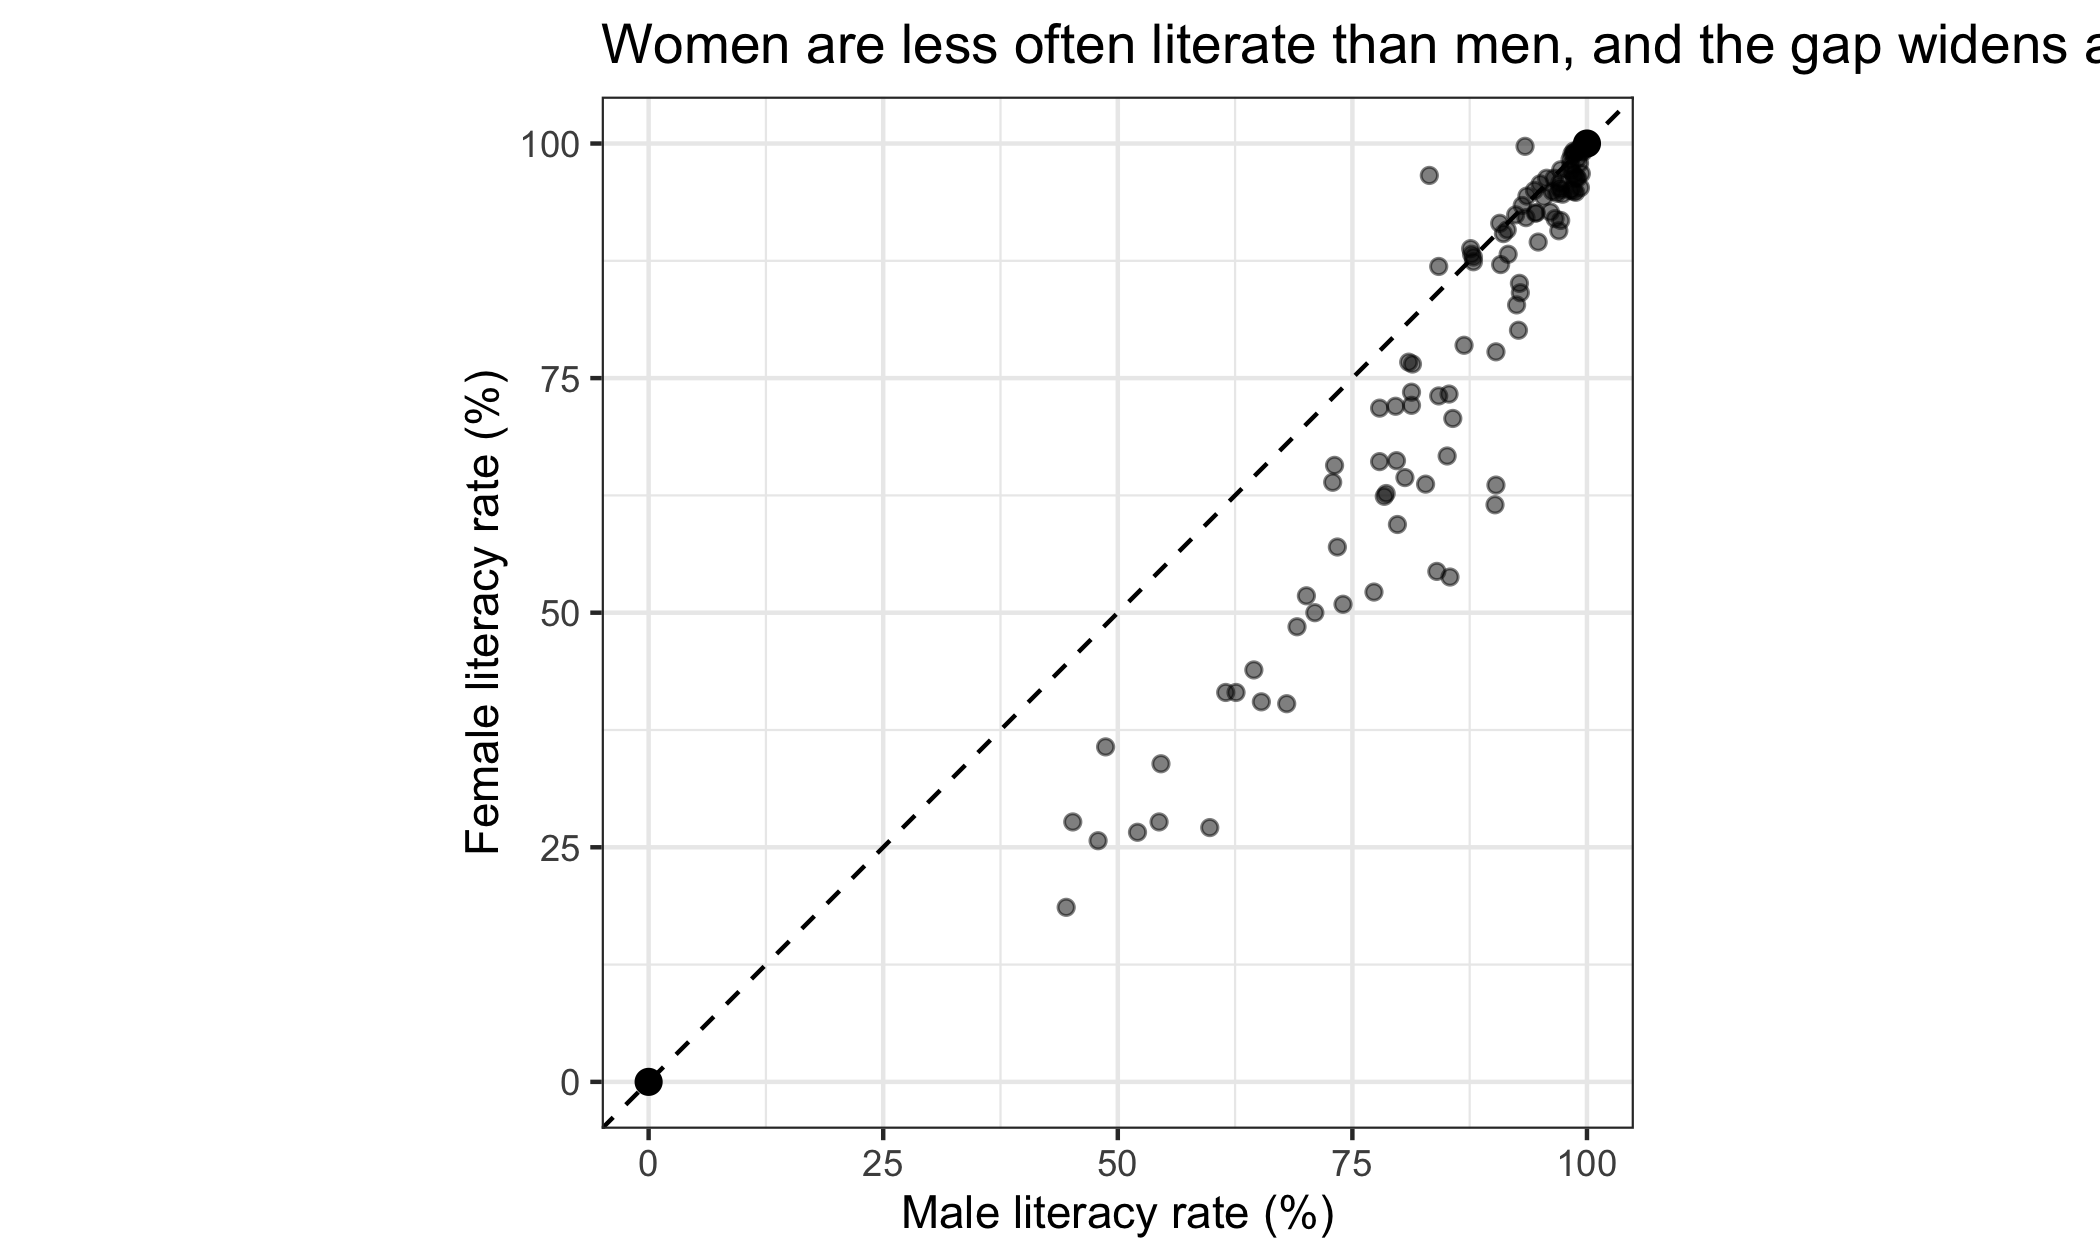
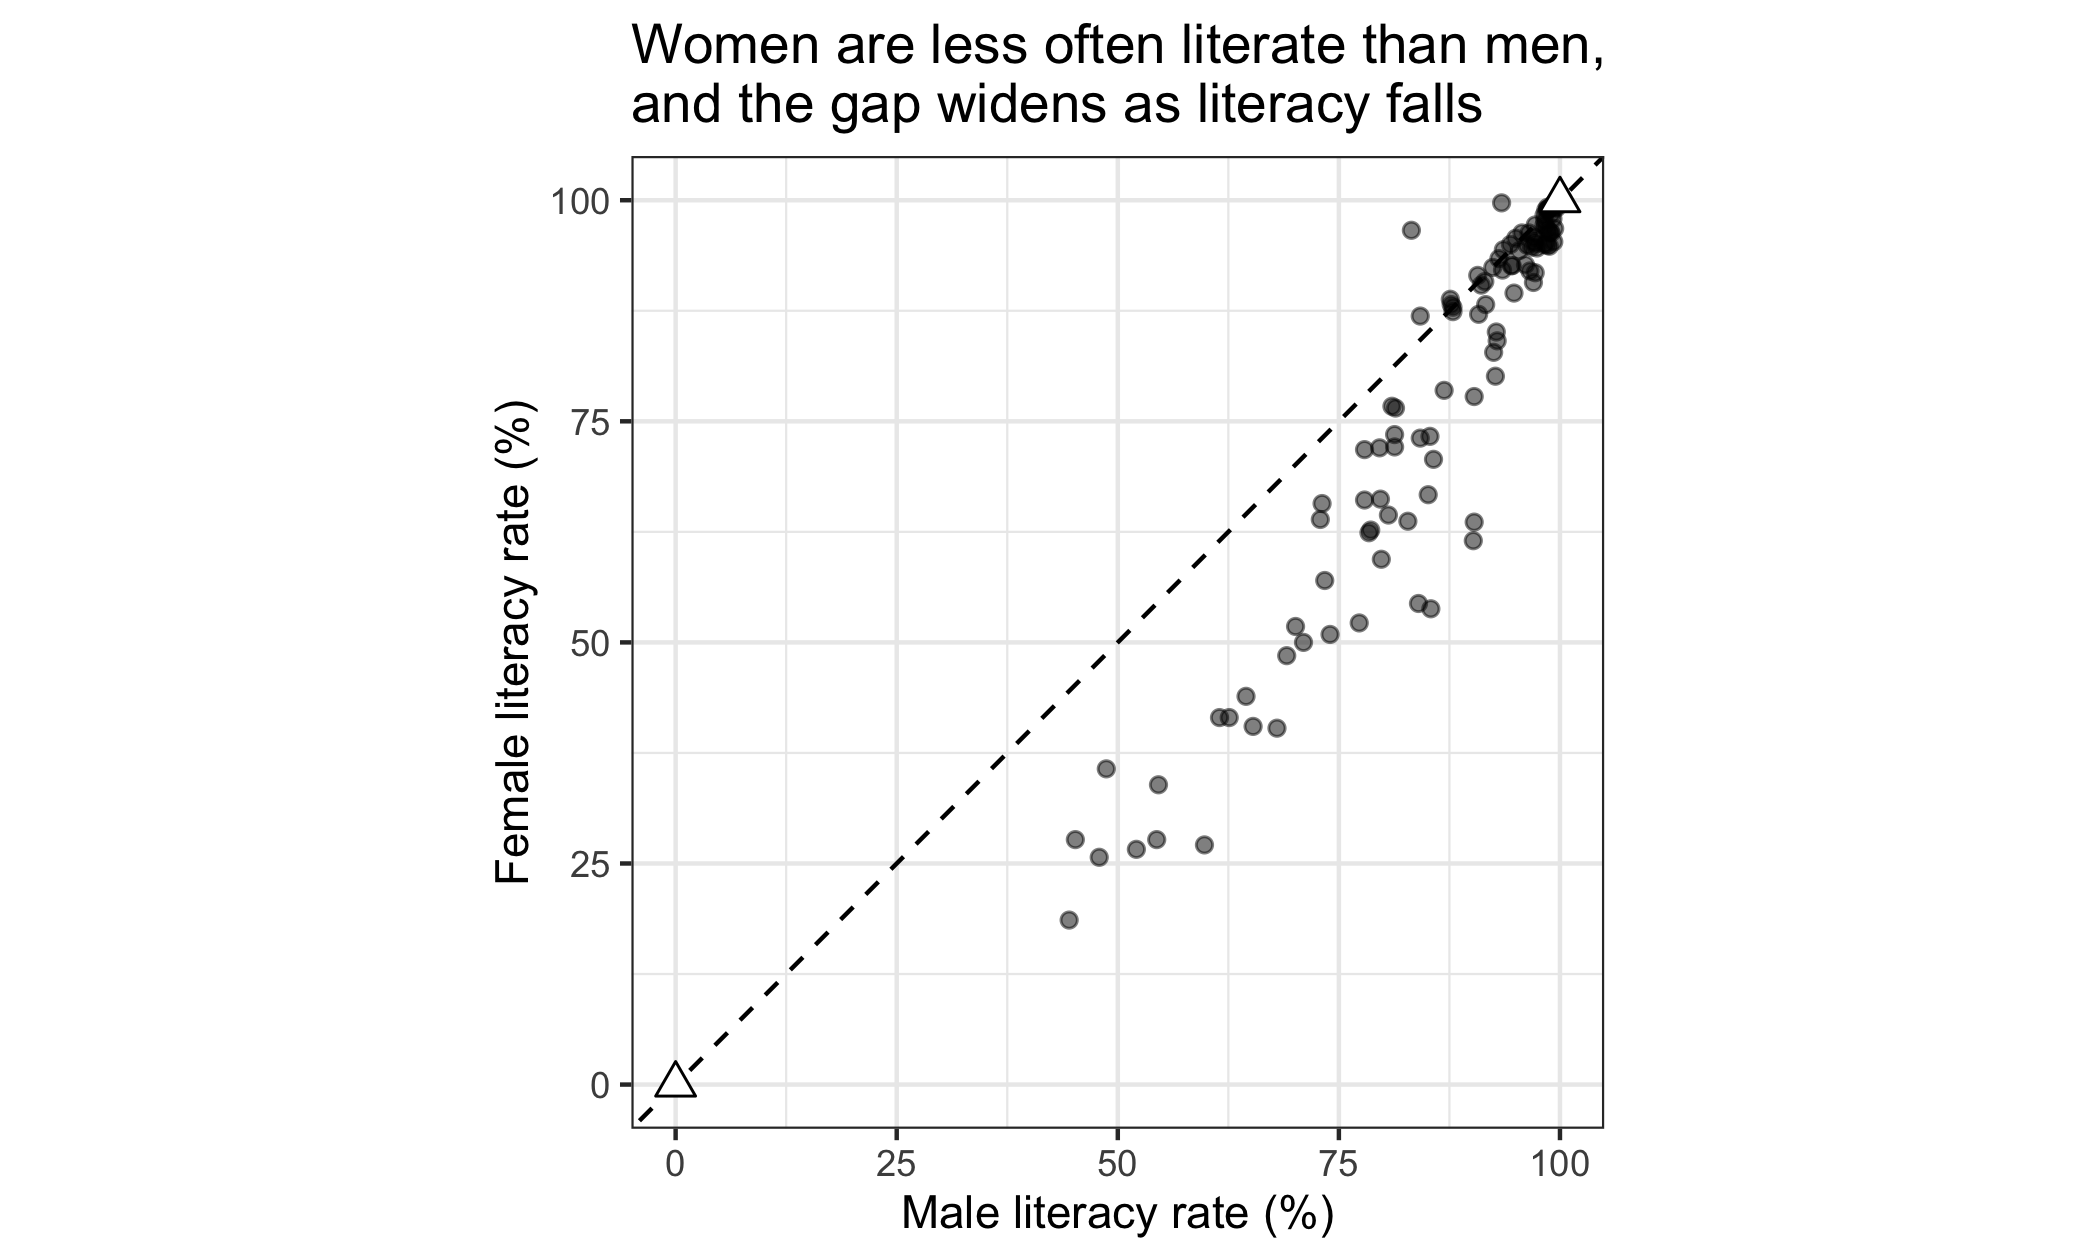
Hollow triangles for anchor points; drop the gap task from swirl 05
Anchor points in session 5 are now drawn as upward triangles with a white
fill (shape = 24, fill = "white"), so they never read as data. In the
finished literacy plot they are drawn after the points, so the countries
near 100% no longer cover the (100, 100) anchor. The summary table and the
slide code follow.

The finished plot's title had run off the figure since coord_fixed() made
the panel square on 21 September. It is now two lines.

Swirl lesson 05 no longer ends with the male-minus-female literacy gap
section. Its closing line no longer promises shading a forbidden region,
which only that section did. The lesson has 15 questions.

diff --git a/docs/05-logical-models.html b/docs/05-logical-models.html
@@ -314,14 +314,16 @@ pre > code.sourceCode > span > a:first-child::before { text-decoration: underlin
 <span id="cb2-8"><a href="#cb2-8" aria-hidden="true" tabindex="-1"></a>    <span class="st">"point"</span>,</span>
 <span id="cb2-9"><a href="#cb2-9" aria-hidden="true" tabindex="-1"></a>    <span class="at">x =</span> <span class="fu">c</span>(<span class="dv">0</span>, <span class="dv">100</span>),</span>
 <span id="cb2-10"><a href="#cb2-10" aria-hidden="true" tabindex="-1"></a>    <span class="at">y =</span> <span class="fu">c</span>(<span class="dv">0</span>, <span class="dv">100</span>),</span>
-<span id="cb2-11"><a href="#cb2-11" aria-hidden="true" tabindex="-1"></a>    <span class="at">size =</span> <span class="dv">3</span></span>
-<span id="cb2-12"><a href="#cb2-12" aria-hidden="true" tabindex="-1"></a>  ) <span class="sc">+</span></span>
-<span id="cb2-13"><a href="#cb2-13" aria-hidden="true" tabindex="-1"></a>  <span class="fu">coord_fixed</span>(<span class="at">xlim =</span> <span class="fu">c</span>(<span class="dv">0</span>, <span class="dv">100</span>), <span class="at">ylim =</span> <span class="fu">c</span>(<span class="dv">0</span>, <span class="dv">100</span>)) <span class="sc">+</span></span>
-<span id="cb2-14"><a href="#cb2-14" aria-hidden="true" tabindex="-1"></a>  <span class="fu">labs</span>(</span>
-<span id="cb2-15"><a href="#cb2-15" aria-hidden="true" tabindex="-1"></a>    <span class="at">x =</span> <span class="st">"Male literacy rate (%)"</span>,</span>
-<span id="cb2-16"><a href="#cb2-16" aria-hidden="true" tabindex="-1"></a>    <span class="at">y =</span> <span class="st">"Female literacy rate (%)"</span></span>
-<span id="cb2-17"><a href="#cb2-17" aria-hidden="true" tabindex="-1"></a>  ) <span class="sc">+</span></span>
-<span id="cb2-18"><a href="#cb2-18" aria-hidden="true" tabindex="-1"></a>  <span class="fu">theme_bw</span>()</span></code></pre></div><button title="Copy to Clipboard" class="code-copy-button"><i class="bi"></i></button></div>
+<span id="cb2-11"><a href="#cb2-11" aria-hidden="true" tabindex="-1"></a>    <span class="at">shape =</span> <span class="dv">24</span>,</span>
+<span id="cb2-12"><a href="#cb2-12" aria-hidden="true" tabindex="-1"></a>    <span class="at">fill =</span> <span class="st">"white"</span>,</span>
+<span id="cb2-13"><a href="#cb2-13" aria-hidden="true" tabindex="-1"></a>    <span class="at">size =</span> <span class="dv">3</span></span>
+<span id="cb2-14"><a href="#cb2-14" aria-hidden="true" tabindex="-1"></a>  ) <span class="sc">+</span></span>
+<span id="cb2-15"><a href="#cb2-15" aria-hidden="true" tabindex="-1"></a>  <span class="fu">coord_fixed</span>(<span class="at">xlim =</span> <span class="fu">c</span>(<span class="dv">0</span>, <span class="dv">100</span>), <span class="at">ylim =</span> <span class="fu">c</span>(<span class="dv">0</span>, <span class="dv">100</span>)) <span class="sc">+</span></span>
+<span id="cb2-16"><a href="#cb2-16" aria-hidden="true" tabindex="-1"></a>  <span class="fu">labs</span>(</span>
+<span id="cb2-17"><a href="#cb2-17" aria-hidden="true" tabindex="-1"></a>    <span class="at">x =</span> <span class="st">"Male literacy rate (%)"</span>,</span>
+<span id="cb2-18"><a href="#cb2-18" aria-hidden="true" tabindex="-1"></a>    <span class="at">y =</span> <span class="st">"Female literacy rate (%)"</span></span>
+<span id="cb2-19"><a href="#cb2-19" aria-hidden="true" tabindex="-1"></a>  ) <span class="sc">+</span></span>
+<span id="cb2-20"><a href="#cb2-20" aria-hidden="true" tabindex="-1"></a>  <span class="fu">theme_bw</span>()</span></code></pre></div><button title="Copy to Clipboard" class="code-copy-button"><i class="bi"></i></button></div>
 <div class="cell-output-display">
 <div id="fig-box" class="quarto-float quarto-figure quarto-figure-center anchored">
 <figure class="quarto-float quarto-float-fig figure">
@@ -335,7 +337,7 @@ Figure&nbsp;5.1: What is known before the data: the box, the two anchor points, 
 </div>
 </div>
 </div>
-<p><code>geom_abline()</code> draws a straight line from an intercept and a slope; intercept 0 and slope 1 is the diagonal. <code>annotate("point", ...)</code> puts markers at given coordinates without needing a data frame.</p>
+<p><code>geom_abline()</code> draws a straight line from an intercept and a slope; intercept 0 and slope 1 is the diagonal. <code>annotate("point", ...)</code> puts markers at given coordinates without needing a data frame. <code>shape = 24</code> makes each marker a triangle pointing upward and <code>fill = "white"</code> leaves it hollow, so the anchor points never look like data, which are drawn as solid dots.</p>
 <p><code>coord_fixed()</code> does two jobs. Its <code>xlim</code> and <code>ylim</code> arguments give the range each axis shows, which here forces the full 0-to-100 square rather than letting the plot shrink to fit the data. And it makes <strong>one unit the same physical length on both axes</strong> — a percentage point is as long going up as it is going across. That matters whenever the two axes carry the same scale. The dashed line means “equal” only if it runs at 45 degrees; let ggplot stretch the plot to fill the page and the same line of equality can lean steep or flat, and the eye reads a gap that is not there. When the two axes carry different scales there is no such line to protect, and <code>coord_cartesian()</code>, which sets the limits without fixing the ratio, is the right tool — it appears further down.</p>
 <p>Now the data.</p>
 <div class="cell">
@@ -564,7 +566,7 @@ Figure&nbsp;5.4: Rating of the party voted for against the respondent’s highes
 </tr>
 <tr class="odd">
 <td>Mark the anchor points</td>
-<td><code>annotate("point", x = , y = )</code></td>
+<td><code>annotate("point", x = , y = , shape = 24, fill = "white")</code></td>
 </tr>
 <tr class="even">
 <td>Shade the forbidden region</td>
@@ -589,28 +591,31 @@ Figure&nbsp;5.4: Rating of the party voted for against the respondent’s highes
 <div class="code-copy-outer-scaffold"><div class="sourceCode cell-code" id="cb12"><pre class="sourceCode r code-with-copy"><code class="sourceCode r"><span id="cb12-1"><a href="#cb12-1" aria-hidden="true" tabindex="-1"></a>world <span class="ot">&lt;-</span> readr<span class="sc">::</span><span class="fu">read_csv</span>(<span class="st">"data/world.csv"</span>, <span class="at">show_col_types =</span> <span class="cn">FALSE</span>)</span>
 <span id="cb12-2"><a href="#cb12-2" aria-hidden="true" tabindex="-1"></a></span>
 <span id="cb12-3"><a href="#cb12-3" aria-hidden="true" tabindex="-1"></a><span class="fu">ggplot</span>(world, <span class="fu">aes</span>(<span class="at">x =</span> lit_m, <span class="at">y =</span> lit_f)) <span class="sc">+</span></span>
-<span id="cb12-4"><a href="#cb12-4" aria-hidden="true" tabindex="-1"></a>  <span class="fu">annotate</span>(</span>
-<span id="cb12-5"><a href="#cb12-5" aria-hidden="true" tabindex="-1"></a>    <span class="st">"point"</span>,</span>
-<span id="cb12-6"><a href="#cb12-6" aria-hidden="true" tabindex="-1"></a>    <span class="at">x =</span> <span class="fu">c</span>(<span class="dv">0</span>, <span class="dv">100</span>),</span>
-<span id="cb12-7"><a href="#cb12-7" aria-hidden="true" tabindex="-1"></a>    <span class="at">y =</span> <span class="fu">c</span>(<span class="dv">0</span>, <span class="dv">100</span>),</span>
-<span id="cb12-8"><a href="#cb12-8" aria-hidden="true" tabindex="-1"></a>    <span class="at">size =</span> <span class="fl">2.5</span></span>
+<span id="cb12-4"><a href="#cb12-4" aria-hidden="true" tabindex="-1"></a>  <span class="fu">geom_point</span>(<span class="at">alpha =</span> <span class="fl">0.5</span>) <span class="sc">+</span></span>
+<span id="cb12-5"><a href="#cb12-5" aria-hidden="true" tabindex="-1"></a>  <span class="fu">geom_abline</span>(</span>
+<span id="cb12-6"><a href="#cb12-6" aria-hidden="true" tabindex="-1"></a>    <span class="at">intercept =</span> <span class="dv">0</span>,</span>
+<span id="cb12-7"><a href="#cb12-7" aria-hidden="true" tabindex="-1"></a>    <span class="at">slope =</span> <span class="dv">1</span>,</span>
+<span id="cb12-8"><a href="#cb12-8" aria-hidden="true" tabindex="-1"></a>    <span class="at">linetype =</span> <span class="st">"dashed"</span></span>
 <span id="cb12-9"><a href="#cb12-9" aria-hidden="true" tabindex="-1"></a>  ) <span class="sc">+</span></span>
-<span id="cb12-10"><a href="#cb12-10" aria-hidden="true" tabindex="-1"></a>  <span class="fu">geom_point</span>(<span class="at">alpha =</span> <span class="fl">0.5</span>) <span class="sc">+</span></span>
-<span id="cb12-11"><a href="#cb12-11" aria-hidden="true" tabindex="-1"></a>  <span class="fu">geom_abline</span>(</span>
-<span id="cb12-12"><a href="#cb12-12" aria-hidden="true" tabindex="-1"></a>    <span class="at">intercept =</span> <span class="dv">0</span>,</span>
-<span id="cb12-13"><a href="#cb12-13" aria-hidden="true" tabindex="-1"></a>    <span class="at">slope =</span> <span class="dv">1</span>,</span>
-<span id="cb12-14"><a href="#cb12-14" aria-hidden="true" tabindex="-1"></a>    <span class="at">linetype =</span> <span class="st">"dashed"</span></span>
-<span id="cb12-15"><a href="#cb12-15" aria-hidden="true" tabindex="-1"></a>  ) <span class="sc">+</span></span>
-<span id="cb12-16"><a href="#cb12-16" aria-hidden="true" tabindex="-1"></a>  <span class="fu">coord_fixed</span>(<span class="at">xlim =</span> <span class="fu">c</span>(<span class="dv">0</span>, <span class="dv">100</span>), <span class="at">ylim =</span> <span class="fu">c</span>(<span class="dv">0</span>, <span class="dv">100</span>)) <span class="sc">+</span></span>
-<span id="cb12-17"><a href="#cb12-17" aria-hidden="true" tabindex="-1"></a>  <span class="fu">labs</span>(</span>
-<span id="cb12-18"><a href="#cb12-18" aria-hidden="true" tabindex="-1"></a>    <span class="at">x =</span> <span class="st">"Male literacy rate (%)"</span>,</span>
-<span id="cb12-19"><a href="#cb12-19" aria-hidden="true" tabindex="-1"></a>    <span class="at">y =</span> <span class="st">"Female literacy rate (%)"</span>,</span>
-<span id="cb12-20"><a href="#cb12-20" aria-hidden="true" tabindex="-1"></a>    <span class="at">title =</span> <span class="fu">paste</span>(</span>
-<span id="cb12-21"><a href="#cb12-21" aria-hidden="true" tabindex="-1"></a>      <span class="st">"Women are less often literate than men,"</span>,</span>
-<span id="cb12-22"><a href="#cb12-22" aria-hidden="true" tabindex="-1"></a>      <span class="st">"and the gap widens as literacy falls"</span></span>
-<span id="cb12-23"><a href="#cb12-23" aria-hidden="true" tabindex="-1"></a>    )</span>
-<span id="cb12-24"><a href="#cb12-24" aria-hidden="true" tabindex="-1"></a>  ) <span class="sc">+</span></span>
-<span id="cb12-25"><a href="#cb12-25" aria-hidden="true" tabindex="-1"></a>  <span class="fu">theme_bw</span>()</span></code></pre></div><button title="Copy to Clipboard" class="code-copy-button"><i class="bi"></i></button></div>
+<span id="cb12-10"><a href="#cb12-10" aria-hidden="true" tabindex="-1"></a>  <span class="fu">annotate</span>(</span>
+<span id="cb12-11"><a href="#cb12-11" aria-hidden="true" tabindex="-1"></a>    <span class="st">"point"</span>,</span>
+<span id="cb12-12"><a href="#cb12-12" aria-hidden="true" tabindex="-1"></a>    <span class="at">x =</span> <span class="fu">c</span>(<span class="dv">0</span>, <span class="dv">100</span>),</span>
+<span id="cb12-13"><a href="#cb12-13" aria-hidden="true" tabindex="-1"></a>    <span class="at">y =</span> <span class="fu">c</span>(<span class="dv">0</span>, <span class="dv">100</span>),</span>
+<span id="cb12-14"><a href="#cb12-14" aria-hidden="true" tabindex="-1"></a>    <span class="at">shape =</span> <span class="dv">24</span>,</span>
+<span id="cb12-15"><a href="#cb12-15" aria-hidden="true" tabindex="-1"></a>    <span class="at">fill =</span> <span class="st">"white"</span>,</span>
+<span id="cb12-16"><a href="#cb12-16" aria-hidden="true" tabindex="-1"></a>    <span class="at">size =</span> <span class="dv">3</span></span>
+<span id="cb12-17"><a href="#cb12-17" aria-hidden="true" tabindex="-1"></a>  ) <span class="sc">+</span></span>
+<span id="cb12-18"><a href="#cb12-18" aria-hidden="true" tabindex="-1"></a>  <span class="fu">coord_fixed</span>(<span class="at">xlim =</span> <span class="fu">c</span>(<span class="dv">0</span>, <span class="dv">100</span>), <span class="at">ylim =</span> <span class="fu">c</span>(<span class="dv">0</span>, <span class="dv">100</span>)) <span class="sc">+</span></span>
+<span id="cb12-19"><a href="#cb12-19" aria-hidden="true" tabindex="-1"></a>  <span class="fu">labs</span>(</span>
+<span id="cb12-20"><a href="#cb12-20" aria-hidden="true" tabindex="-1"></a>    <span class="at">x =</span> <span class="st">"Male literacy rate (%)"</span>,</span>
+<span id="cb12-21"><a href="#cb12-21" aria-hidden="true" tabindex="-1"></a>    <span class="at">y =</span> <span class="st">"Female literacy rate (%)"</span>,</span>
+<span id="cb12-22"><a href="#cb12-22" aria-hidden="true" tabindex="-1"></a>    <span class="at">title =</span> <span class="fu">paste</span>(</span>
+<span id="cb12-23"><a href="#cb12-23" aria-hidden="true" tabindex="-1"></a>      <span class="st">"Women are less often literate than men,"</span>,</span>
+<span id="cb12-24"><a href="#cb12-24" aria-hidden="true" tabindex="-1"></a>      <span class="st">"and the gap widens as literacy falls"</span>,</span>
+<span id="cb12-25"><a href="#cb12-25" aria-hidden="true" tabindex="-1"></a>      <span class="at">sep =</span> <span class="st">"</span><span class="sc">\n</span><span class="st">"</span></span>
+<span id="cb12-26"><a href="#cb12-26" aria-hidden="true" tabindex="-1"></a>    )</span>
+<span id="cb12-27"><a href="#cb12-27" aria-hidden="true" tabindex="-1"></a>  ) <span class="sc">+</span></span>
+<span id="cb12-28"><a href="#cb12-28" aria-hidden="true" tabindex="-1"></a>  <span class="fu">theme_bw</span>()</span></code></pre></div><button title="Copy to Clipboard" class="code-copy-button"><i class="bi"></i></button></div>
 <div class="cell-output-display">
 <div id="fig-finished" class="quarto-float quarto-figure quarto-figure-center anchored">
 <figure class="quarto-float quarto-float-fig figure">
@@ -624,6 +629,7 @@ Figure&nbsp;5.5: Everything above, on one plot.
 </div>
 </div>
 </div>
+<p>The title is split over two lines because <code>coord_fixed()</code> makes the plot square, and so narrower than the page; on one line it would run off the edge. <code>paste()</code> joins its pieces of text, and <code>sep</code> says what goes between them — here <code>"\n"</code>, which is R’s way of writing a line break.</p>
 <div class="discussion">
 <p><strong>A question.</strong> Rule 1 says to start axes at zero when zero is meaningful, and the income plot above obeys it on the vertical axis.</p>
 <p>But look at the horizontal one. GDP per capita runs from about a thousand dollars to over a hundred and thirty thousand, and almost every country is bunched at the left.</p>
